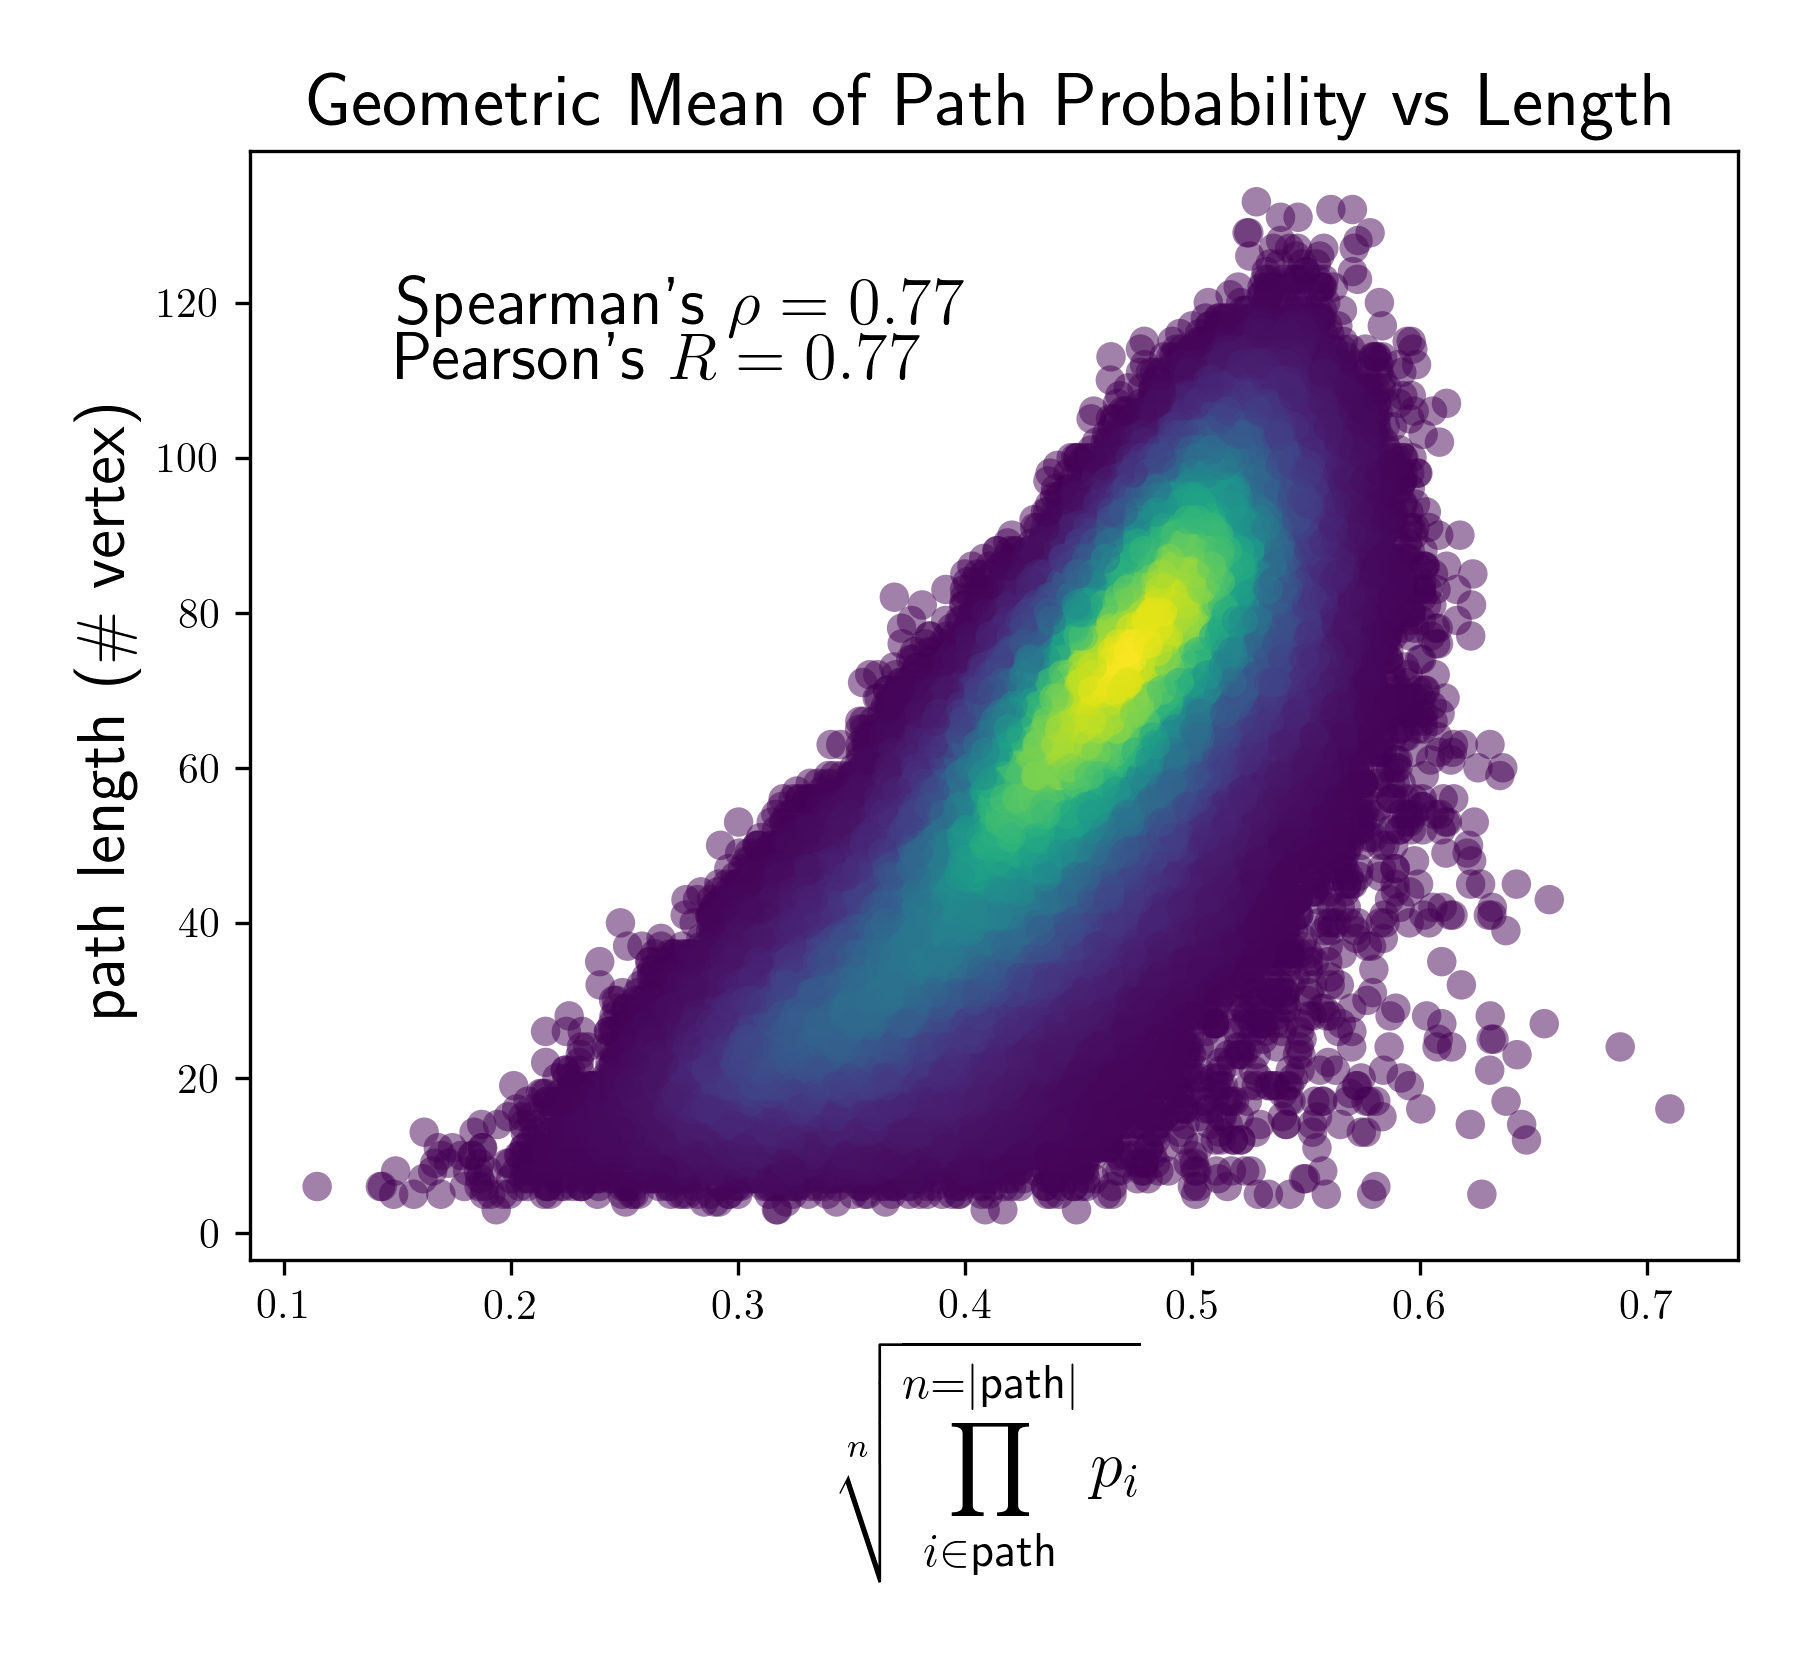
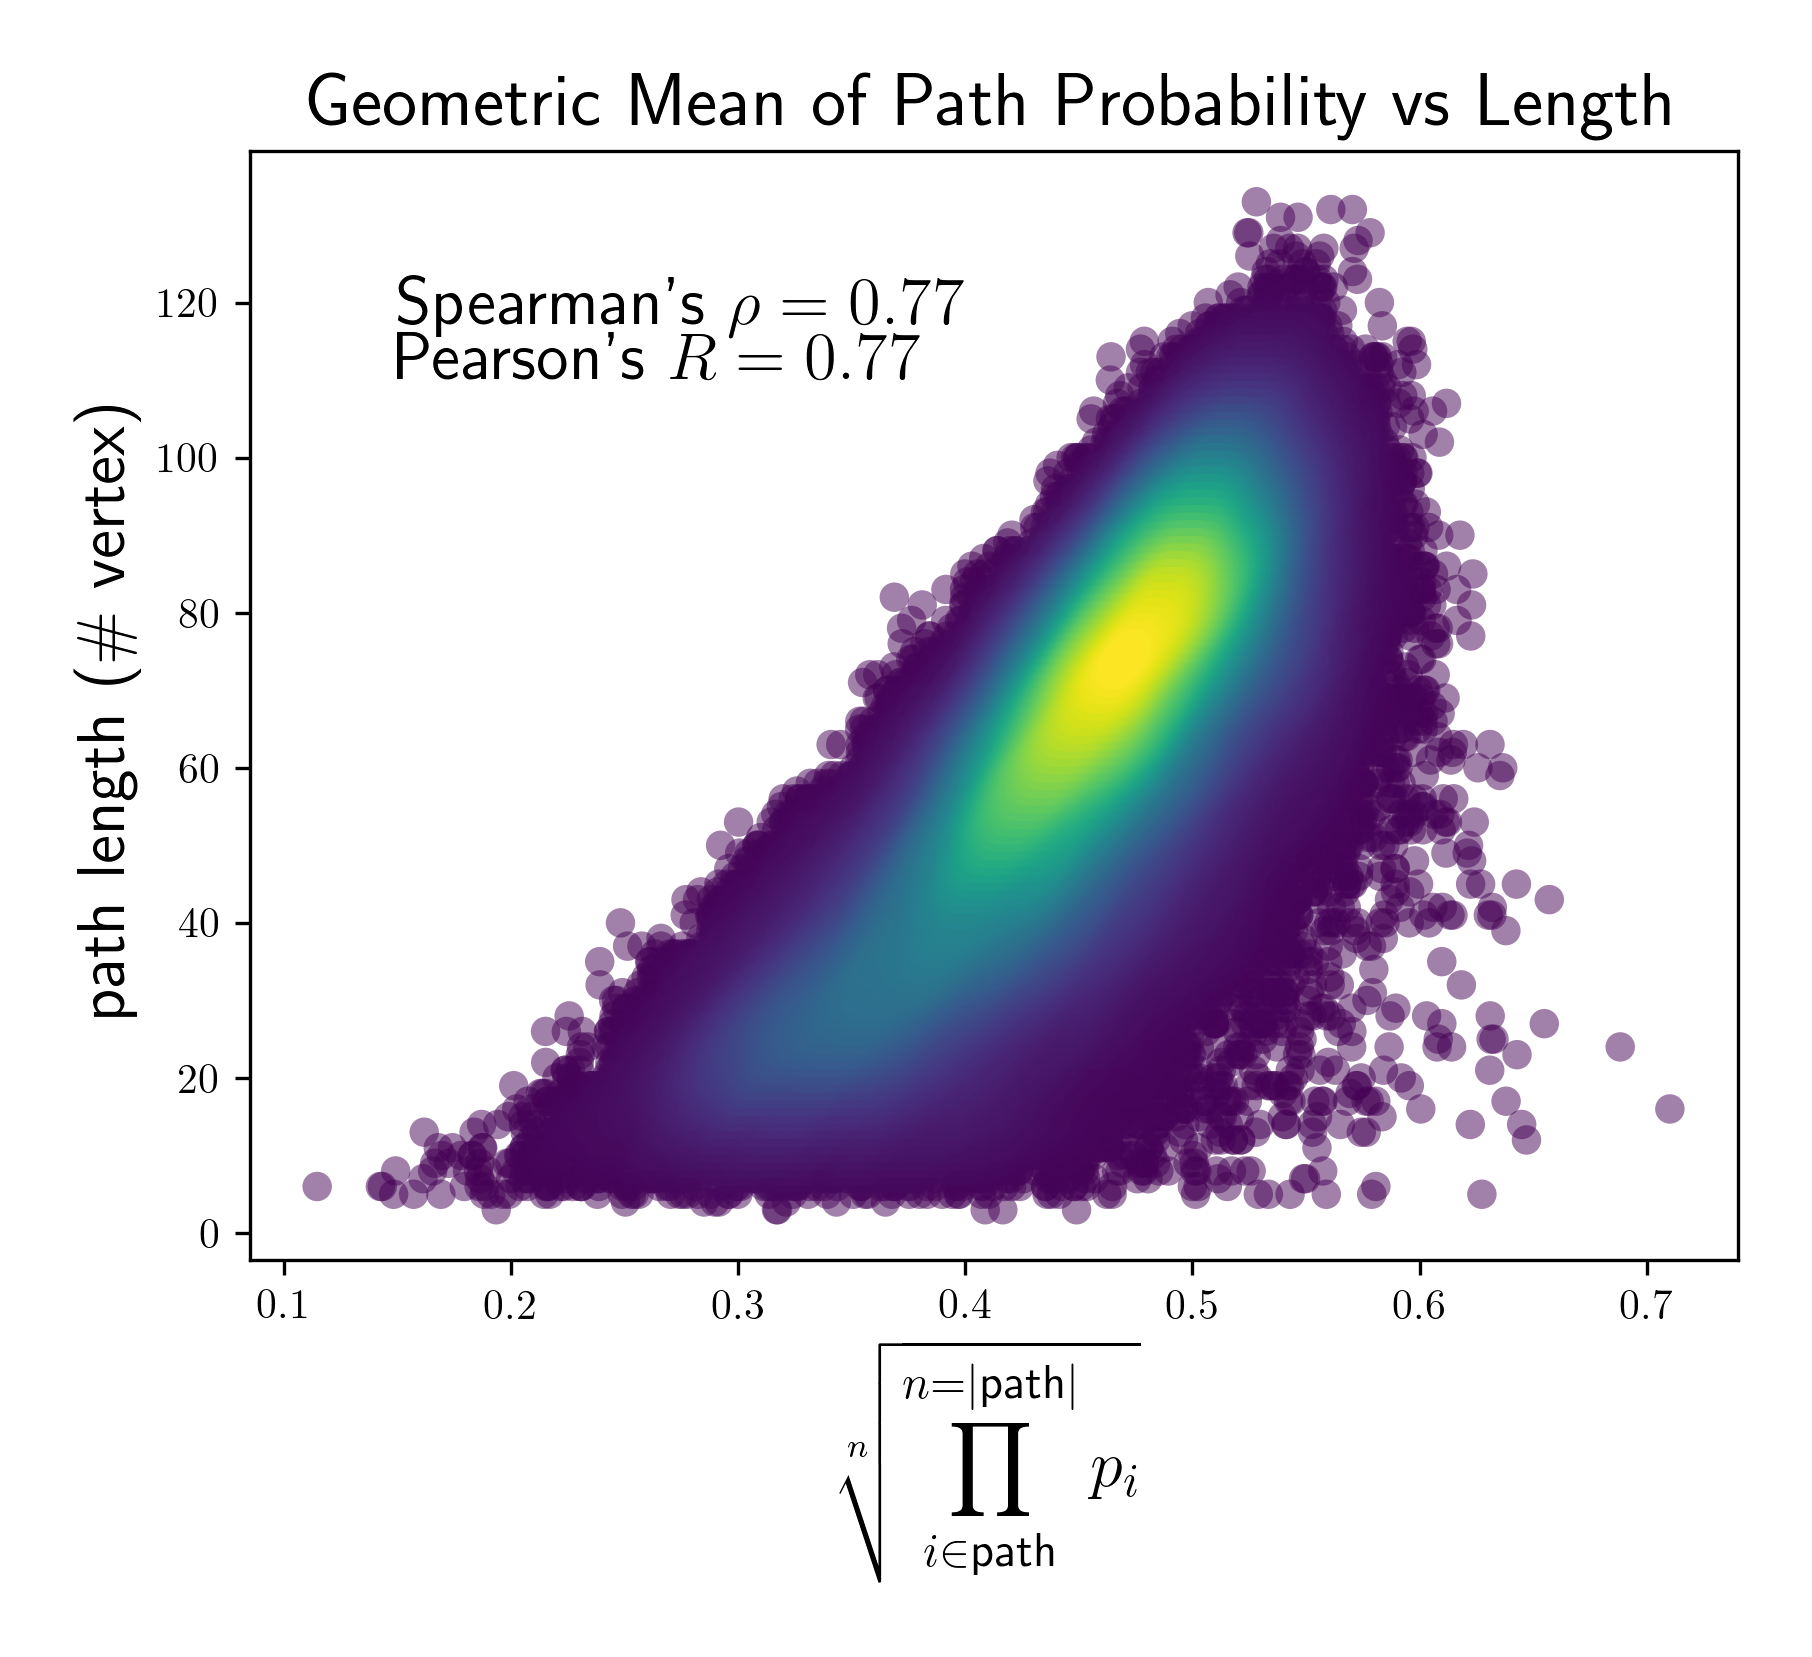
wip

Changed region(s): [[0.4945, 0.277, 0.7417, 0.5232]]

diff --git a/ismrm2022/figure_loglog_correlation_tc_p.py b/ismrm2022/figure_loglog_correlation_tc_p.py
@@ -80,5 +80,66 @@ pl.close()
 
 
 
+from scipy.stats import gaussian_kde
+
+x = log10_prob_graph_row_norm.ravel()
+y = log_tc_plus_1.ravel()
+# Calculate the point density
+xy = np.vstack([x,y])
+z = gaussian_kde(xy)(xy)
+
+# Sort the points by density, so that the densest points are plotted last
+idx = z.argsort()
+x, y, z = x[idx], y[idx], z[idx]
+
+
+
+
+
+
+
+
+pl.figure()
+pl.scatter(x, y, c=z, s=50, 
+	       alpha=0.5,
+	       edgecolors='none')
+
+
+pl.xlabel(r'$\log_{{10}}{{(\mathbb{{P}}_{{path}})}}$', fontsize=16)
+pl.ylabel(r'$\log_{{10}}{{(\text{{Streamline}}_{{\text{{count}}}} + 1)}}$', fontsize=16)
+pl.title('Connectome weights', fontsize=18)
+# pl.title('Connectome weights: Streamline Count vs Shortest Path Probability', fontsize=18)
+
+
+
+R = np.corrcoef(log10_prob_graph_row_norm.ravel(), log_tc_plus_1.ravel())[0,1]
+rho, _ = spearmanr(log10_prob_graph_row_norm.ravel(), log_tc_plus_1.ravel())
+
+
+x_pos_text = -32
+y_pos_text = 3.5
+offset_text = 0.4
+# pl.text(x_pos_text, y_pos_text, 'R^2 = {:.2f}'.format(R2))
+pl.text(x_pos_text, y_pos_text, 
+	    r'''Pearson's $R = {:.2f}$'''.format(R), fontsize=16)
+# pl.text(x_pos_text, y_pos_text+offset_text, 'rho = {:.2f}'.format(rho))
+pl.text(x_pos_text, y_pos_text+offset_text, 
+	    r'''Spearman's $\rho = {:.2f}$'''.format(rho), fontsize=16)
+
+
+
+pl.savefig('/data/hu_paquette/work/tractoGRAPHy/ismrm2022/images/'+'loglog_correlation_tc_p_density.png',
+			dpi=300,
+			pad_inches=0.25,
+			transparent=True,
+			bbox_inches='tight')
+
+pl.close()
+
+# pl.show()
+
+
+
+
 
 

diff --git a/ismrm2022/figure_correlation_p_l.py b/ismrm2022/figure_correlation_p_l.py
@@ -74,6 +74,69 @@ pl.close()
 
 
 
+from scipy.stats import gaussian_kde
+
+x = log10_prob_graph.ravel()
+y = len_graph.ravel()
+# Calculate the point density
+xy = np.vstack([x,y])
+z = gaussian_kde(xy)(xy)
+
+# Sort the points by density, so that the densest points are plotted last
+idx = z.argsort()
+x, y, z = x[idx], y[idx], z[idx]
+
+
+
+
+
+
+
+
+pl.figure()
+pl.scatter(x, y, c=z, s=50, 
+	       alpha=0.5,
+	       edgecolors='none')
+
+
+pl.xlabel(r'$\log_{{10}}{{(\mathbb{{P}}_{{path}})}}$', fontsize=16)
+pl.ylabel(r'path length (\# vertex)', fontsize=16)
+pl.title('Shortest Path Probability vs Length', fontsize=18)
+
+
+
+R = np.corrcoef(log10_prob_graph.ravel(), len_graph.ravel())[0,1]
+rho, _ = spearmanr(log10_prob_graph.ravel(), len_graph.ravel())
+
+
+x_pos_text = -38
+y_pos_text = 10
+offset_text = 9
+
+pl.text(x_pos_text, y_pos_text, 
+	    r'''Pearson's $R = {:.2f}$'''.format(R), fontsize=16)
+
+pl.text(x_pos_text, y_pos_text+offset_text, 
+	    r'''Spearman's $\rho = {:.2f}$'''.format(rho), fontsize=16)
+
+
+
+pl.savefig('/data/hu_paquette/work/tractoGRAPHy/ismrm2022/images/'+'prob_len_correlation_density.png',
+			dpi=300,
+			pad_inches=0.25,
+			transparent=True,
+			bbox_inches='tight')
+
+pl.close()
+
+# pl.show()
+
+
+
+
+
+
+
 
 
 
